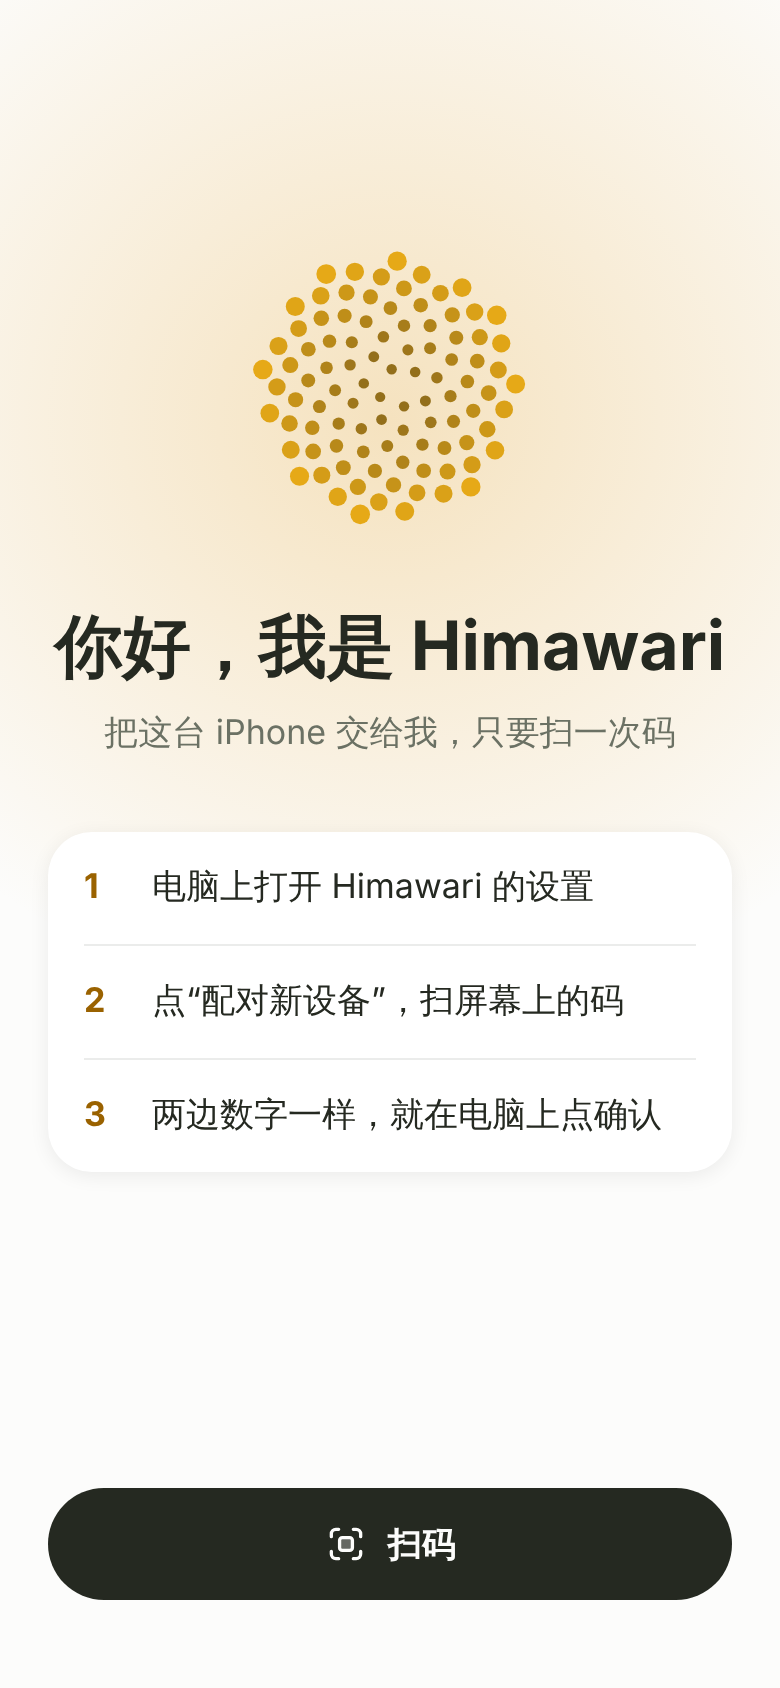
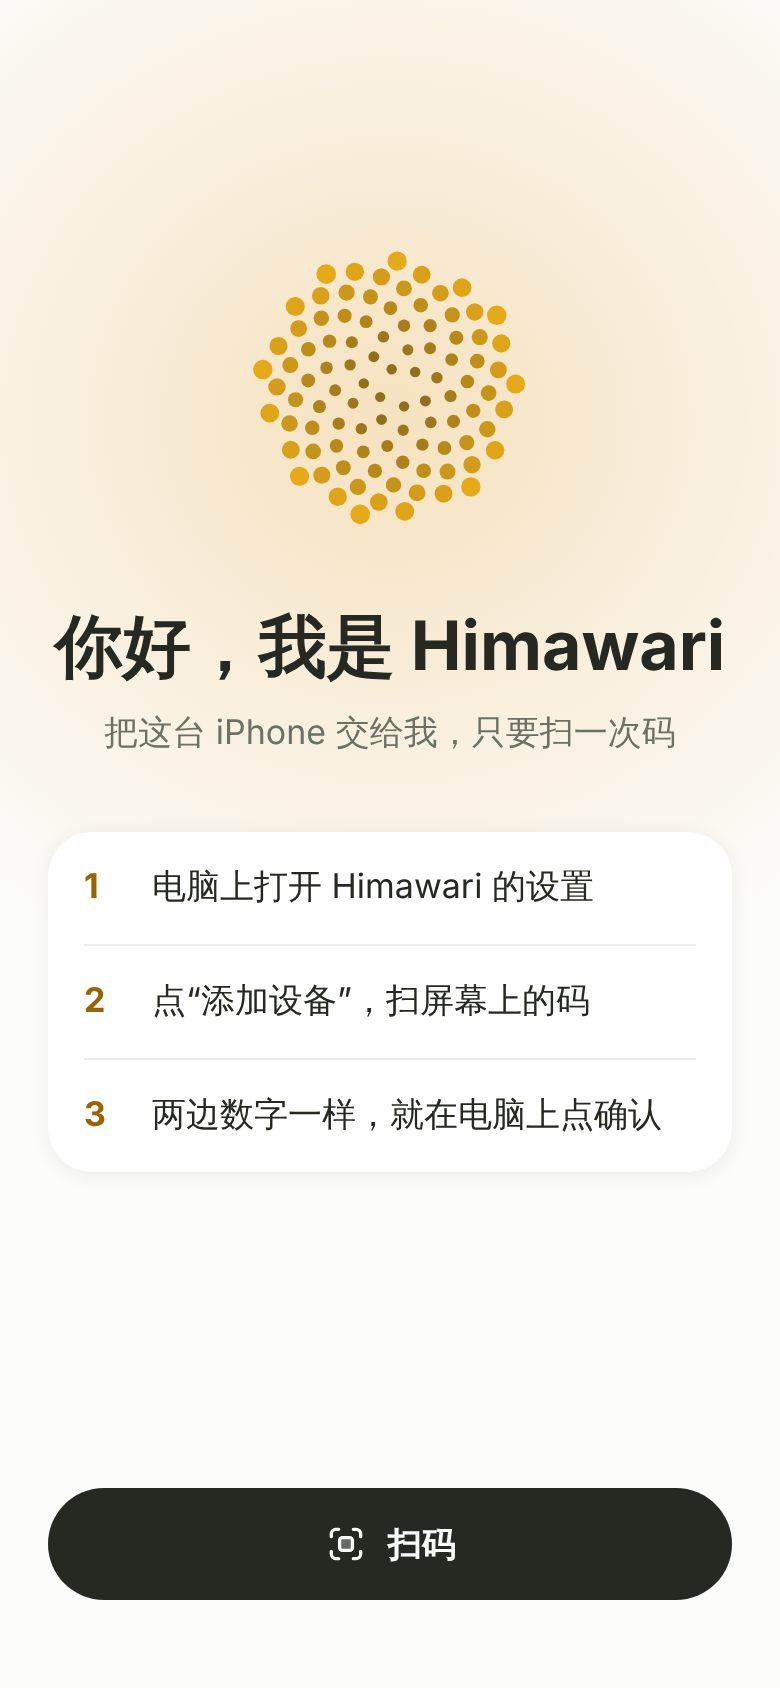
docs(design): 苹果客户端的触感设计，补数值表，配对入口改叫“添加设备”
Andy 2026-11-12 要求触感做得智能、体贴。详细设计加“触感”一节：每一下的
含义表（iPhone 和手表）、六条看场合的规则、设置三档、触感试手页、
页面不直接调震动的检查；设计规范加规则 61；还没核实的事加第 27、28 条。
tokens.json 补编码线程报缺的数值。原型和基线图里“配对新设备”改成和网页
按钮同名的“添加设备”。

Incident-gates: none (no incident handled)
Layer-0-tests: not run (docs and design assets only)
Fast-mode-checks: check:adr-numbers, check:docs-links, check:glossary, check:markdown-tables, check:instruction-links, format:check passed; validate_docs.py --strict 13 existing errors, none new
Docs: deferred (fast mode)

Changed region(s): [[0.2462, 0.5853, 0.8, 0.6161]]

diff --git a/docs/assets/apple-clients/2026-11-12-v2/source/SettingsMore.dc.html b/docs/assets/apple-clients/2026-11-12-v2/source/SettingsMore.dc.html
@@ -65,15 +65,15 @@ a{color:#9a6200}a:hover{color:#6f4700}
 </div>
 </div>
 <div class="col">
-<div class="cap"><div><b>配对新设备</b>　先出面容，再出码；新设备扫它</div></div>
+<div class="cap"><div><b>添加设备</b>　先出面容，再出码；新设备扫它</div></div>
 <div class="hm ph">
-<div style="position: absolute; left: 0; top: 0; width: 390px; height: 844px; background: var(--scrim)"></div><div style="position: absolute; left: 0; top: 58px; width: 390px; height: 786px; box-sizing: border-box; background: var(--bg); border-radius: 38px 38px 0 0; padding: 16px 16px 40px; display: flex; flex-direction: column; gap: 24px"><div style="display: flex; align-items: center; justify-content: space-between; flex-shrink: 0"><div style="width: 48px; height: 48px; border-radius: 24px; background: var(--fill); display: flex; align-items: center; justify-content: center"><svg aria-hidden="true" width="18" height="18" viewBox="0 0 24 24" fill="none" stroke="currentColor" stroke-width="2.2" stroke-linecap="round" stroke-linejoin="round" style="flex-shrink: 0"><path d="M15 6l-6 6l6 6" /></svg></div><div style="font-size: 18px; font-weight: 700">配对新设备</div><div style="width: 48px; height: 48px; display: flex; align-items: center; justify-content: flex-end"></div></div><div style="display: flex; flex-direction: column; align-items: center; gap: 22px; padding-top: 18px"><div class="card" style="width: 236px; height: 236px; border-radius: 32px; display: flex; align-items: center; justify-content: center"><div style="width: 180px; height: 180px; border-radius: 10px; background: conic-gradient(from 0deg at 50% 50%, #252921 0 25%, #fff 0 50%, #252921 0 75%, #fff 0) 0 0 / 22px 22px, #fff; opacity: 0.88"></div></div><div class="serif" style="font-size: 22px; font-weight: 600; line-height: 1.5; text-align: center">用新设备上的 Himawari 扫它</div><div class="t15 mu">9 分 41 秒后失效</div></div><div class="link" style="align-self: center; margin-top: auto">Mac 不方便扫：拷贝配对链接</div></div>
+<div style="position: absolute; left: 0; top: 0; width: 390px; height: 844px; background: var(--scrim)"></div><div style="position: absolute; left: 0; top: 58px; width: 390px; height: 786px; box-sizing: border-box; background: var(--bg); border-radius: 38px 38px 0 0; padding: 16px 16px 40px; display: flex; flex-direction: column; gap: 24px"><div style="display: flex; align-items: center; justify-content: space-between; flex-shrink: 0"><div style="width: 48px; height: 48px; border-radius: 24px; background: var(--fill); display: flex; align-items: center; justify-content: center"><svg aria-hidden="true" width="18" height="18" viewBox="0 0 24 24" fill="none" stroke="currentColor" stroke-width="2.2" stroke-linecap="round" stroke-linejoin="round" style="flex-shrink: 0"><path d="M15 6l-6 6l6 6" /></svg></div><div style="font-size: 18px; font-weight: 700">添加设备</div><div style="width: 48px; height: 48px; display: flex; align-items: center; justify-content: flex-end"></div></div><div style="display: flex; flex-direction: column; align-items: center; gap: 22px; padding-top: 18px"><div class="card" style="width: 236px; height: 236px; border-radius: 32px; display: flex; align-items: center; justify-content: center"><div style="width: 180px; height: 180px; border-radius: 10px; background: conic-gradient(from 0deg at 50% 50%, #252921 0 25%, #fff 0 50%, #252921 0 75%, #fff 0) 0 0 / 22px 22px, #fff; opacity: 0.88"></div></div><div class="serif" style="font-size: 22px; font-weight: 600; line-height: 1.5; text-align: center">用新设备上的 Himawari 扫它</div><div class="t15 mu">9 分 41 秒后失效</div></div><div class="link" style="align-self: center; margin-top: auto">Mac 不方便扫：拷贝配对链接</div></div>
 </div>
 </div>
 <div class="col">
 <div class="cap"><div><b>新设备来了</b>　数字一样再确认，确认时出面容</div></div>
 <div class="hm ph">
-<div style="position: absolute; left: 0; top: 0; width: 390px; height: 844px; background: var(--scrim)"></div><div style="position: absolute; left: 0; top: 58px; width: 390px; height: 786px; box-sizing: border-box; background: var(--bg); border-radius: 38px 38px 0 0; padding: 16px 16px 40px; display: flex; flex-direction: column; gap: 24px"><div style="display: flex; align-items: center; justify-content: space-between; flex-shrink: 0"><div style="width: 48px; height: 48px; border-radius: 24px; background: var(--fill); display: flex; align-items: center; justify-content: center"><svg aria-hidden="true" width="18" height="18" viewBox="0 0 24 24" fill="none" stroke="currentColor" stroke-width="2.2" stroke-linecap="round" stroke-linejoin="round" style="flex-shrink: 0"><path d="M15 6l-6 6l6 6" /></svg></div><div style="font-size: 18px; font-weight: 700">配对新设备</div><div style="width: 48px; height: 48px; display: flex; align-items: center; justify-content: flex-end"></div></div><div style="display: flex; flex-direction: column; align-items: center; gap: 22px; padding-top: 40px"><svg aria-hidden="true" width="76" height="76" viewBox="0 0 24 24" fill="none" stroke="currentColor" stroke-width="1.3" stroke-linecap="round" stroke-linejoin="round" style="flex-shrink: 0"><path d="M3 19l18 0" /> <path d="M5 7a1 1 0 0 1 1 -1h12a1 1 0 0 1 1 1v8a1 1 0 0 1 -1 1h-12a1 1 0 0 1 -1 -1l0 -8" /></svg><div class="serif" style="font-size: 24px; font-weight: 600; text-align: center; line-height: 1.45">“MacBook Pro”想配对</div><div class="round" style="font-size: 54px; font-weight: 700; letter-spacing: 2px">482 913</div><div class="t17 mu" style="text-align: center; line-height: 1.5">那台设备上的数字一样，再点确认</div></div><div style="margin-top: auto"><div style="display: flex; gap: 8px"><div class="pill big" style="flex: 1">不认识</div><div class="pill big pri" style="flex: 1">确认</div></div></div></div>
+<div style="position: absolute; left: 0; top: 0; width: 390px; height: 844px; background: var(--scrim)"></div><div style="position: absolute; left: 0; top: 58px; width: 390px; height: 786px; box-sizing: border-box; background: var(--bg); border-radius: 38px 38px 0 0; padding: 16px 16px 40px; display: flex; flex-direction: column; gap: 24px"><div style="display: flex; align-items: center; justify-content: space-between; flex-shrink: 0"><div style="width: 48px; height: 48px; border-radius: 24px; background: var(--fill); display: flex; align-items: center; justify-content: center"><svg aria-hidden="true" width="18" height="18" viewBox="0 0 24 24" fill="none" stroke="currentColor" stroke-width="2.2" stroke-linecap="round" stroke-linejoin="round" style="flex-shrink: 0"><path d="M15 6l-6 6l6 6" /></svg></div><div style="font-size: 18px; font-weight: 700">添加设备</div><div style="width: 48px; height: 48px; display: flex; align-items: center; justify-content: flex-end"></div></div><div style="display: flex; flex-direction: column; align-items: center; gap: 22px; padding-top: 40px"><svg aria-hidden="true" width="76" height="76" viewBox="0 0 24 24" fill="none" stroke="currentColor" stroke-width="1.3" stroke-linecap="round" stroke-linejoin="round" style="flex-shrink: 0"><path d="M3 19l18 0" /> <path d="M5 7a1 1 0 0 1 1 -1h12a1 1 0 0 1 1 1v8a1 1 0 0 1 -1 1h-12a1 1 0 0 1 -1 -1l0 -8" /></svg><div class="serif" style="font-size: 24px; font-weight: 600; text-align: center; line-height: 1.45">“MacBook Pro”想配对</div><div class="round" style="font-size: 54px; font-weight: 700; letter-spacing: 2px">482 913</div><div class="t17 mu" style="text-align: center; line-height: 1.5">那台设备上的数字一样，再点确认</div></div><div style="margin-top: auto"><div style="display: flex; gap: 8px"><div class="pill big" style="flex: 1">不认识</div><div class="pill big pri" style="flex: 1">确认</div></div></div></div>
 </div>
 </div>
 <div class="col">

diff --git a/docs/assets/apple-clients/2026-11-12-v2/source/PairingFlow.dc.html b/docs/assets/apple-clients/2026-11-12-v2/source/PairingFlow.dc.html
@@ -73,7 +73,7 @@ a{color:#9a6200}a:hover{color:#6f4700}
 <div class="col">
 <div class="cap"><div><b>码不能用</b>　另两种：“这个码用过了”“认不出这个码”</div></div>
 <div class="hm ph">
-<div class="page" style="padding: 150px 28px 44px; justify-content: space-between; align-items: stretch; background: radial-gradient(320px 300px at 195px 210px, var(--glow), transparent), var(--bg)"><div style="display: flex; flex-direction: column; align-items: center; gap: 22px; padding-top: 60px"><svg aria-hidden="true" width="72" height="72" viewBox="0 0 24 24" fill="none" stroke="currentColor" stroke-width="1.3" stroke-linecap="round" stroke-linejoin="round" style="flex-shrink: 0; color: var(--danger)"><path d="M3 12a9 9 0 1 0 18 0a9 9 0 0 0 -18 0" /> <path d="M12 8v4" /> <path d="M12 16h.01" /></svg><div class="serif" style="font-size: 26px; font-weight: 600">这个码过期了</div><div class="t17 mu" style="text-align: center; line-height: 1.5">一个码只管 10 分钟。在电脑上再点一次“配对新设备”</div></div><div class="pill pri big"><svg aria-hidden="true" width="22" height="22" viewBox="0 0 24 24" fill="none" stroke="currentColor" stroke-width="1.6" stroke-linecap="round" stroke-linejoin="round" style="flex-shrink: 0"><path d="M5 12h14" /> <path d="M3 7v-2a2 2 0 0 1 2 -2h2" /> <path d="M3 17v2a2 2 0 0 0 2 2h2" /> <path d="M17 3h2a2 2 0 0 1 2 2v2" /> <path d="M17 21h2a2 2 0 0 0 2 -2v-2" /></svg><span style="margin-left: 10px">重新扫码</span></div></div>
+<div class="page" style="padding: 150px 28px 44px; justify-content: space-between; align-items: stretch; background: radial-gradient(320px 300px at 195px 210px, var(--glow), transparent), var(--bg)"><div style="display: flex; flex-direction: column; align-items: center; gap: 22px; padding-top: 60px"><svg aria-hidden="true" width="72" height="72" viewBox="0 0 24 24" fill="none" stroke="currentColor" stroke-width="1.3" stroke-linecap="round" stroke-linejoin="round" style="flex-shrink: 0; color: var(--danger)"><path d="M3 12a9 9 0 1 0 18 0a9 9 0 0 0 -18 0" /> <path d="M12 8v4" /> <path d="M12 16h.01" /></svg><div class="serif" style="font-size: 26px; font-weight: 600">这个码过期了</div><div class="t17 mu" style="text-align: center; line-height: 1.5">一个码只管 10 分钟。在电脑上再点一次“添加设备”</div></div><div class="pill pri big"><svg aria-hidden="true" width="22" height="22" viewBox="0 0 24 24" fill="none" stroke="currentColor" stroke-width="1.6" stroke-linecap="round" stroke-linejoin="round" style="flex-shrink: 0"><path d="M5 12h14" /> <path d="M3 7v-2a2 2 0 0 1 2 -2h2" /> <path d="M3 17v2a2 2 0 0 0 2 2h2" /> <path d="M17 3h2a2 2 0 0 1 2 2v2" /> <path d="M17 21h2a2 2 0 0 0 2 -2v-2" /></svg><span style="margin-left: 10px">重新扫码</span></div></div>
 </div>
 </div>
 <div class="col">

diff --git a/docs/assets/apple-clients/2026-11-12-v2/source/Main.dc.html b/docs/assets/apple-clients/2026-11-12-v2/source/Main.dc.html
@@ -357,7 +357,7 @@ input{font-family:inherit}
 <div style="flex: 1; align-self: stretch; display: flex; align-items: center; gap: 10px; padding-right: 18px; border-bottom: 0"><div style="flex: 1; font-size: 17px">随身麦克风</div><div style="font-size: 17px; color: var(--muted)">电量 64%</div></div>
 </div>
 </div>
-<a href="Pairing.dc.html" style="align-self: flex-start; min-height: 44px; padding: 0 20px; display: flex; align-items: center; font-size: 17px; text-decoration: none; color: var(--sun)">配对新设备</a>
+<a href="Pairing.dc.html" style="align-self: flex-start; min-height: 44px; padding: 0 20px; display: flex; align-items: center; font-size: 17px; text-decoration: none; color: var(--sun)">添加设备</a>
 </div>
 
 <div style="display: flex; flex-direction: column; gap: 10px">

diff --git a/docs/assets/apple-clients/2026-11-12-v2/source/Pairing.dc.html b/docs/assets/apple-clients/2026-11-12-v2/source/Pairing.dc.html
@@ -28,7 +28,7 @@ a{color:#9a6200}a:hover{color:#6f4700}
 </div>
 <div style="min-height: 56px; display: flex; align-items: center; gap: 14px; border-bottom: 1px solid rgba(37,41,33,0.09)">
 <div class="round" style="width: 20px; font-size: 17px; font-weight: 700; color: #9a6200">2</div>
-<div style="flex: 1; font-size: 17px; line-height: 1.35">点“配对新设备”，扫屏幕上的码</div>
+<div style="flex: 1; font-size: 17px; line-height: 1.35">点“添加设备”，扫屏幕上的码</div>
 </div>
 <div style="min-height: 56px; display: flex; align-items: center; gap: 14px">
 <div class="round" style="width: 20px; font-size: 17px; font-weight: 700; color: #9a6200">3</div>

diff --git a/docs/ui-ux-design-guide.md b/docs/ui-ux-design-guide.md
@@ -146,6 +146,7 @@ date: "2026-10-29"
 58. **会改动东西的操作，点下去直接出面容识别，不另弹一个要再点一次的确认框。** 关掉或暂停感知这类“往少的方向”的操作连面容也不用（随 2026-11-12 批准的原型定，[ADR 0247](adr/0247-apple-clients-are-fully-native-with-a-capability-table.md)）。
 59. **Andy 说“学某个 App 的设计”，学的是视觉和组件（按钮、输入条、列表、设置页、字体），不动功能和页面结构，除非他明说**（Andy 2026-11-12：“学组件和 ui，不是说功能”）。
 60. **图标、配色这类看眼缘的事，拿不准就一次并排给几套让 Andy 选，不一版一版地试**（Andy 2026-11-12：“多做几套出来给我选”）。
+61. **触感每一下都有固定的含义，而且看场合。** 主人的手引起的事和 Himawari 的事分开；回答逐字出来时不震；录音和收听时不震；主人正看着时只有“等你点头”震；手表戴着就只在手表上震；设置里能调三档。页面不直接调震动，只报发生了什么事，由共用的一处决定震不震、怎么震（Andy 2026-11-12：“触感要做的智能、体贴一些”；事件表见[详细设计的“触感”](execution/specs/2026-11-11-apple-device-body-design.md#haptics)）。
 
 [↑ 返回目录](#contents)
 
